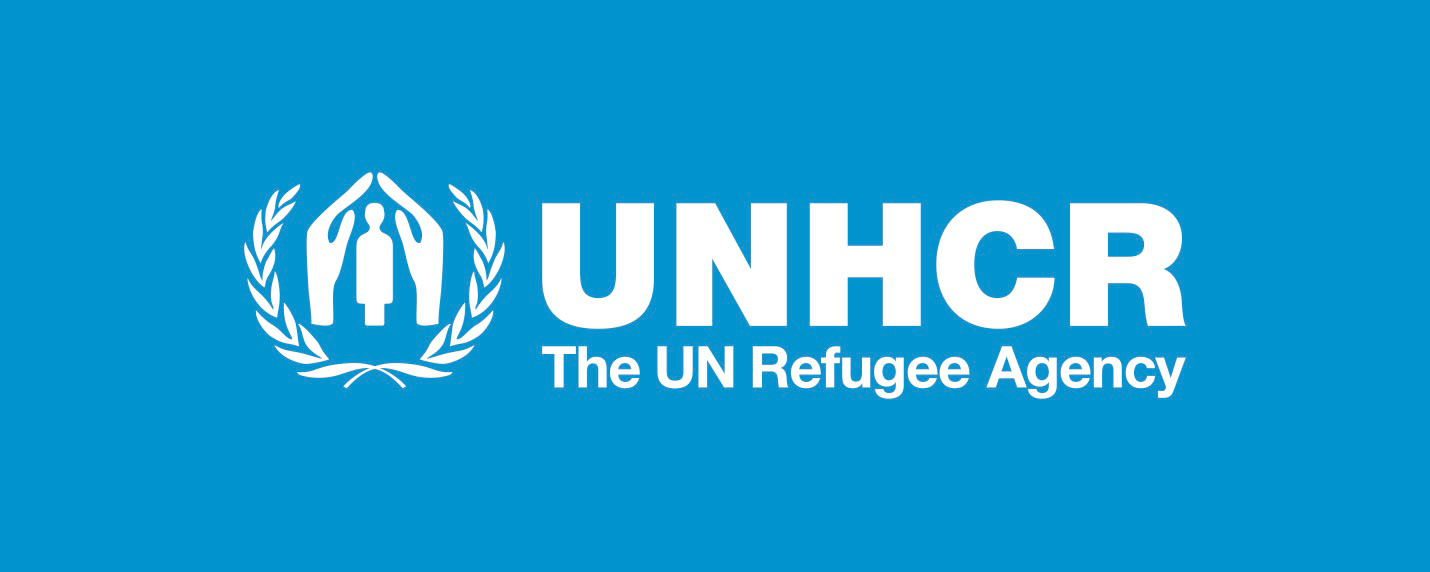
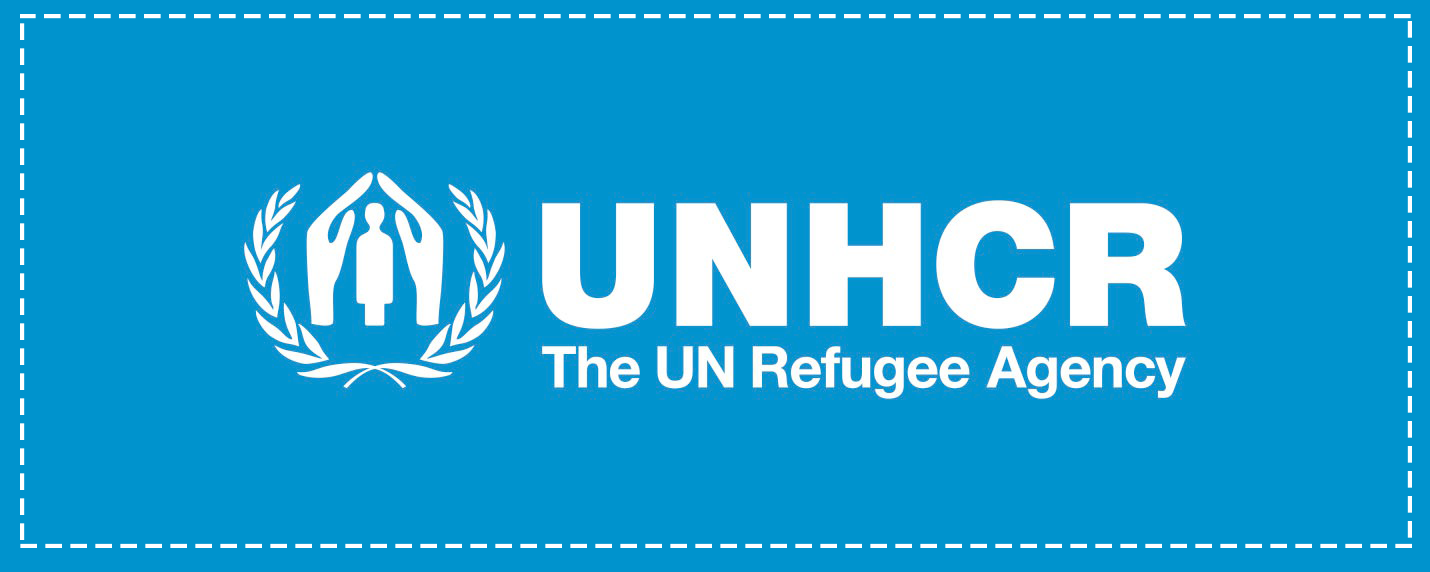
splash page ready

diff --git a/src/pages/Home.js b/src/pages/Home.js
@@ -7,7 +7,9 @@ import splashImg from '../images/worldmap.png';
 import compassImg from '../images/compassMap.png';
 import UNHCRImg from '../images/UNHCR.png';
 import fingerPrintImg from '../images/fingerPrintLogo.png';
-// import payment from '../assets/images/payment.png';
+import UNHCRLogoImg from '../images/UNHCR_logo.png';
+import userLogoImg from '../images/users_logo.png';
+import providerLogoImg from '../images/provider_logo.png';
 
 class Home extends Component {
   componentDidMount() {
@@ -24,30 +26,18 @@ class Home extends Component {
         <div className="row">
           <div className="col s12 m12 clean-row">
             <div className="splash-img-section">
-                <img src={splashImg} className="moveFromBottomFade splash-img-block" />
+                <img src={splashImg} className="splash-img-block" />
             </div>
           </div>
         </div>
         
         <div className="row">
-          <div className="col s12 m12 clean-row">
+          <div className="col s12 m12 clean-row" onClick={() => {this.scrollDown()}}>
             <img src={compassImg} className="moveFromTopFade compass-img-block" />
             <img src={UNHCRImg} className="moveFromBottomFade UNHCR-img-block" />
             <img src={fingerPrintImg} className="moveFromBottomFade finger-print-img-block" />
           </div>
-        </div>
-        
-        {/* 
-        <div className="home-intro-text-block">
-          <div className="row">
-            <div className="col s1 m1" />
-            <div className="col s10 m10">
-              <div className="home-intro-text">
-              <div className="home-intro-text-main">GRANT</div>
-              GRANT provides transparency and accountability for public funding. Current funding mechanisms are inefficient, opaque, and centralized. GRANT allows curators to source proposals and fund grants through elastic capital allocation.</div>
-            </div>
-            <div className="col s1 m1" />
-          </div>
+
         </div>
         
         <div className="home-nav-area">
@@ -57,30 +47,30 @@ class Home extends Component {
             <div className="col s10 m10">
               <div className="row">
                 <div className="col s4 m4">
-                  <Link to="/grant">
+                  <Link to="/unhcr">
                   <div className="home-nav-card">
                     <div className="home-nav-box-top" />
-                    <img src={spaceship} className="home-nav-img" />
-                      <div className="home-nav-text">Propose Grant</div>
+                    <img src={UNHCRLogoImg} className="home-nav-img" />
+                      <div className="home-nav-text">UNHCR ID</div>
                   </div>
                   </Link>
                 </div>
                 <div className="col s4 m4">
-                  <Link to="/fund">
+                  <Link to="/user">
                   <div className="home-nav-card">
                     <div className="home-nav-box-top" />
-                    <img src={payment} className="home-nav-img" />
-                    <div className="home-nav-text">Fund Projects</div>
+                    <img src={userLogoImg} className="home-nav-img" />
+                    <div className="home-nav-text">User LogIn</div>
                   </div>
                   </Link>
                 </div>
 
                 <div className="col s4 m4">
-                  <Link to="/feat">
+                  <Link to="/provider">
                   <div className="home-nav-card">
                     <div className="home-nav-box-top" />
-                    <img src={gears} className="home-nav-img" />
-                    <div className="home-nav-text">Feats Dashboard</div>
+                    <img src={providerLogoImg} className="home-nav-img" />
+                    <div className="home-nav-text">Provider LogIn</div>
                   </div>
                   </Link>
                 </div>
@@ -90,7 +80,7 @@ class Home extends Component {
             <div className="col s1 m1" />
 
           </div>
-        </div> */}
+        </div>
 
       </div>
     );

diff --git a/src/css/home.css b/src/css/home.css
@@ -1,8 +1,5 @@
 .splash-img-section {
     text-align: center;
-    /* margin-top: 1em; */
-    /* margin-left: auto; */
-    /* margin-right: auto; */
 }
 .splash-img-block {
     opacity: 0.58;
@@ -12,21 +9,65 @@
 .UNHCR-img-block {
     position: absolute;
     width: 22em;
-    top: 8.5%;
+    top: 6.5%;
     left: 34%;
-    opacity: 0.95;  
 }
 .compass-img-block {
     position: absolute;
     width: 22em;
-    top: 29.4%;
+    top: 25%;
     left: 34%;
-    opacity: 0.95;
 }
 .finger-print-img-block {
     position: absolute;
     width: 22em;
-    top: 64.5%;
+    top: 58.1%;
     left: 34%;
-    opacity: 0.95;
+}
+.home-splash-block {
+    margin-top: 4em;
+    width: 42em;
+    margin-left: auto;
+    margin-right: auto;
+    text-align: center;
+}
+.home-splash-img {
+    width: 42em;
+}
+.home-logo-btn {
+    width: 7.6em;
+    position: absolute;
+    top: 60%;
+    left: 44.25%;
+    cursor: pointer;
+}
+
+.home-nav-card {
+    cursor: pointer;
+    margin-top: 1em;
+    border-width: 0.1em;
+    border-style: solid;
+    border-color: #0099cc !important; 
+}
+.home-nav-box-top {
+    height: 2em;
+    background-color: #0099cc;
+}
+.home-nav-card:hover {
+   color: rgba(81, 181, 214, 0.64) !important;
+}
+
+.home-nav-img {
+    padding-top: 4em;
+    margin-left: auto;
+    margin-right: auto;
+    display: block;
+    width: 10em;
+}
+.home-nav-text {
+    color: #0099cc;
+    text-align: center;
+    font-size: 2.5em;
+    margin-top: 1em;
+    padding-bottom: 1.5em;
 }
